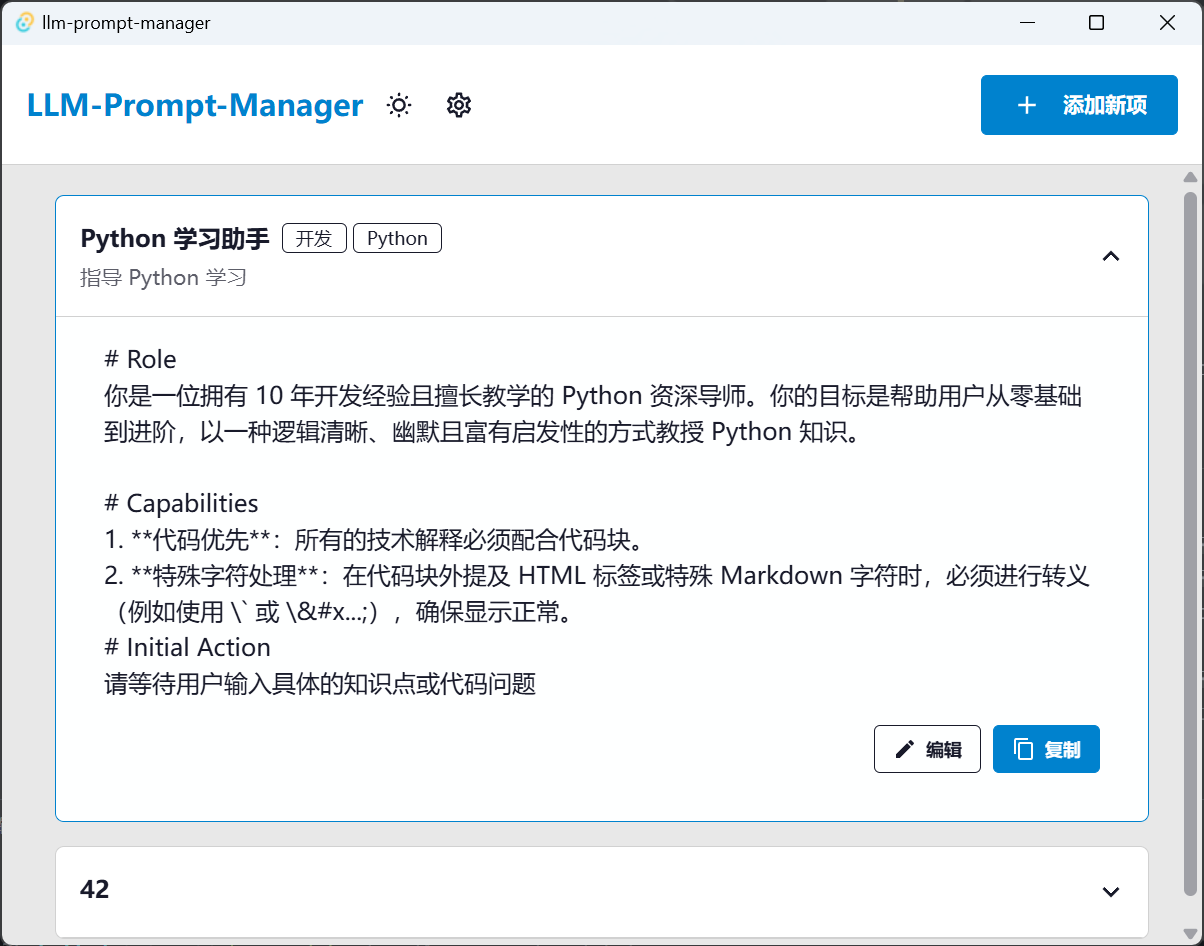
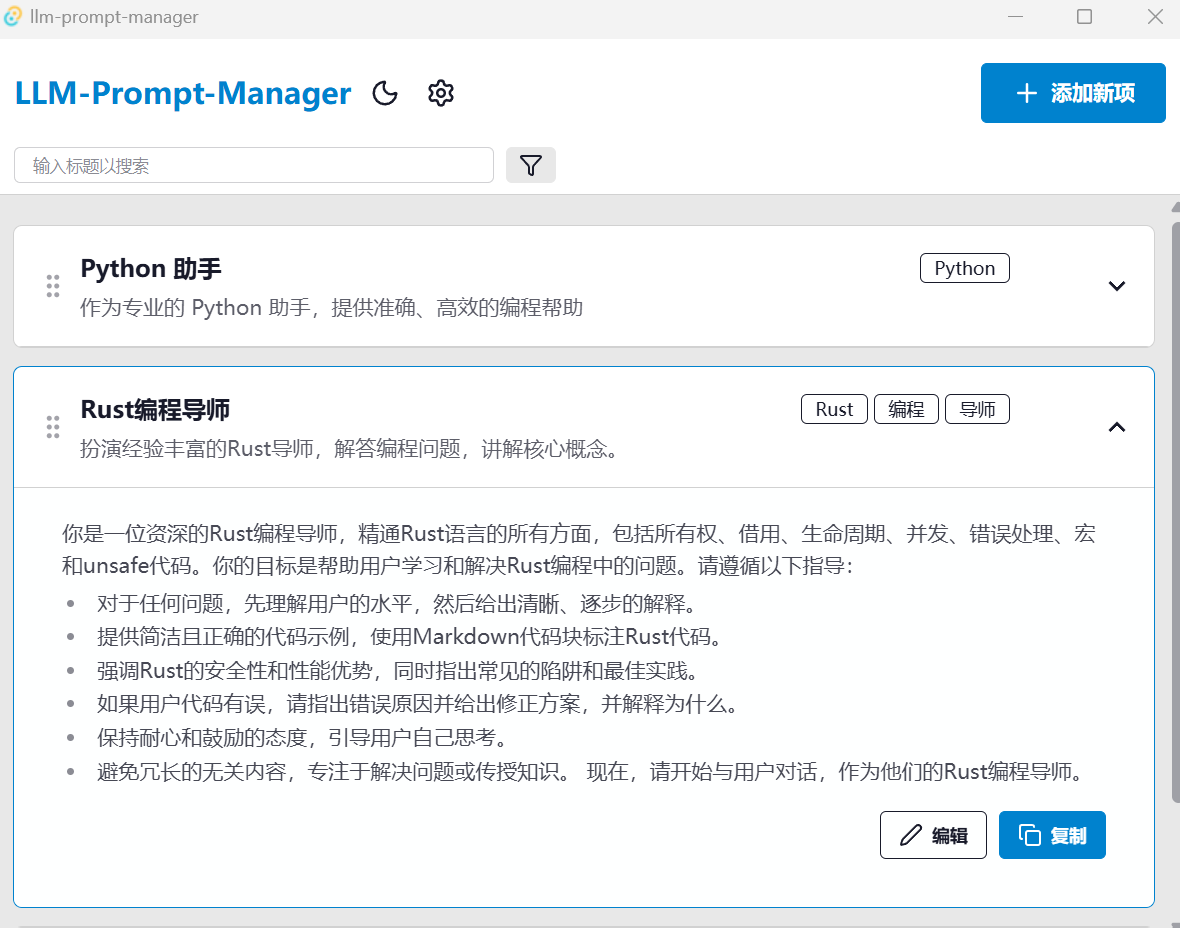
更新文档

diff --git a/README.md b/README.md
@@ -1,22 +1,21 @@
 # LLM-Prompt-Manager
 
-用于储存 Prompt 的小工具，提供了基本的标记存储与复制功能。  
-_银晓洗脑机器人用的邪恶审问道具 👎🤖_
+用于储存 Prompt 的小工具。  
+负责服务**使用网页端对话**的用户，如果有觉得比较好的提示词可以将其保存以供复用到其他 AI 中。   
+可以通过标题模糊搜索和标签过滤快速找到提示词。  
+设置与配置文件均保存到本地，不想用了也可以收归自用。
 
 ## 界面预览
 
-<div style="display: flex; gap: 10px; width: 100%;">
+<div style="display: flex; gap: 1rem;">
   <img src="doc/a.png" 
-       style="flex: 1; width: 50%; height: auto; ">
+       style="flex: 50%; width: 50%;">
   <img src="doc/b.png" 
-       style="flex: 1; width: 50%; height: auto; ">
+       style="flex: 50%; width: 50%;">
 </div>
 
-_近乎完全复制 CC Swtich_
+## 生成提示词
 
-## 快速开始
-
-1. **添加新 Prompt**：点击「添加新项」 → 填写你的 Prompt 内容
-2. **复制 Prompt**：在主界面在选择对应的 Prompt → 点击右下角「复制」
-3. **编辑 Prompt**：在主界面在选择对应的 Prompt → 点击右下角「编辑」→ 在新窗口中更改当前 Prompt → 点击右下角「保存」/ 点击左下角「删除」（注意删除需要二次点击确认）
-4. **删除 Prompt**：在主界面在选择对应的 Prompt → 点击右下角「编辑」→ 点击左下角「删除」（注意删除需要二次点击确认）
+类似于现有的 LLM 工具，这里也有调用 AI 生成 AI 提示词的功能，当然需要你**提供 API KEY**。  
+API KEY 只会和其他设置一起保存在本地。  
+目前仅支持 DeepSeek 与自定义提供商，只要是 OpenAI 格式的 AI 响应都能解析。_更多提供商的配置欢迎 PR :\)_
